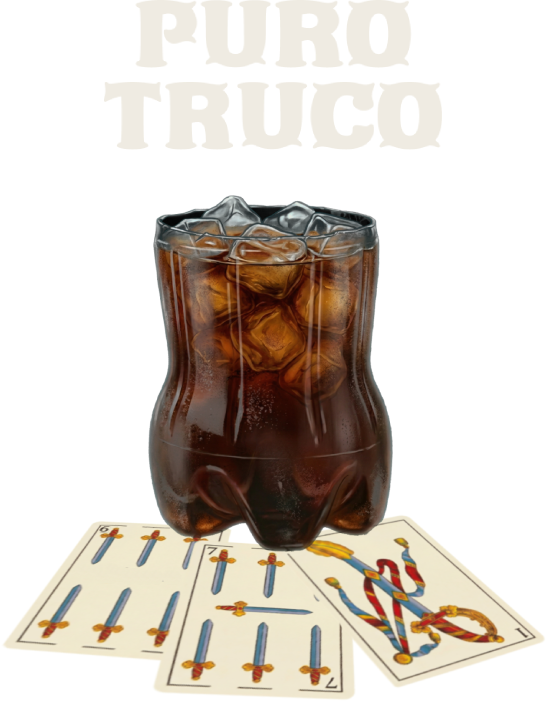
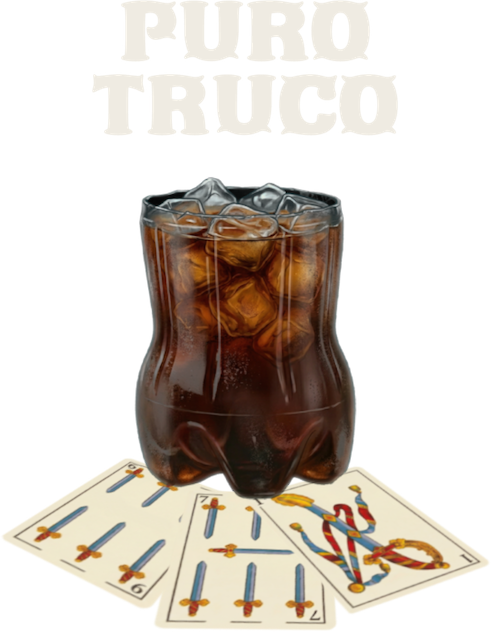
wip

Changed region(s): [[0.0, 0.2706, 1.0, 1.0], [0.3666, 0.6614, 0.3971, 0.6915]]

diff --git a/lib/widgets/settings_dialog.dart b/lib/widgets/settings_dialog.dart
@@ -4,6 +4,7 @@ import 'package:provider/provider.dart';
 import 'package:flutter_svg/flutter_svg.dart';
 import 'package:share_plus/share_plus.dart';
 import 'package:url_launcher/url_launcher.dart';
+import 'package:package_info_plus/package_info_plus.dart';
 
 import '../providers/premium_provider.dart';
 import '../providers/score_provider.dart';
@@ -13,6 +14,7 @@ import 'truco_buttons.dart';
 class SettingsDialogContent extends StatefulWidget {
   final Function(String) onThemeLockedTap;
   final Function(int) onPaletteLockedTap;
+  final Function(int) onBeanPaletteLockedTap;
   final VoidCallback onPremiumTap;
   final VoidCallback onRepeatTutorial;
 
@@ -20,6 +22,7 @@ class SettingsDialogContent extends StatefulWidget {
     super.key,
     required this.onThemeLockedTap,
     required this.onPaletteLockedTap,
+    required this.onBeanPaletteLockedTap,
     required this.onPremiumTap,
     required this.onRepeatTutorial,
   });
@@ -32,13 +35,28 @@ class _SettingsDialogContentState extends State<SettingsDialogContent> {
   int currentPane = 0; // 0: Main, 1: Customization, 2: Game Mode
   Timer? _timer;
   final ScrollController _gameModeScrollController = ScrollController();
+  String _appVersion = "1.1.4"; // Initial fallback
 
   @override
   void initState() {
     super.initState();
+    _loadVersion();
     _timer = Timer.periodic(const Duration(seconds: 30), (timer) {
       if (mounted) setState(() {});
     });
+  }
+
+  Future<void> _loadVersion() async {
+    try {
+      final packageInfo = await PackageInfo.fromPlatform();
+      if (mounted) {
+        setState(() {
+          _appVersion = packageInfo.version;
+        });
+      }
+    } catch (e) {
+      debugPrint("Error loading version: $e");
+    }
   }
 
   @override
@@ -608,8 +626,12 @@ class _SettingsDialogContentState extends State<SettingsDialogContent> {
                   runSpacing: isSmallScreen ? 12 : 16,
                   children: availableBeanPalettes.asMap().entries.map((entry) {
                     final palette = entry.value;
+                    final index = entry.key;
                     final isSelected =
                         scoreProvider.currentBeanPalette.name == palette.name;
+                    final isLocked = !premiumProvider.isBeanPaletteUnlocked(index);
+                    final timeLeft =
+                        premiumProvider.getRemainingTime('bean_palette_$index');
 
                     Color getBeanPreviewColor(BeanType type) {
                       switch (type) {
@@ -638,28 +660,56 @@ class _SettingsDialogContentState extends State<SettingsDialogContent> {
 
                     return GestureDetector(
                       onTap: () {
-                        scoreProvider.setBeanPalette(palette);
+                        if (isLocked) {
+                          widget.onBeanPaletteLockedTap(index);
+                        } else {
+                          scoreProvider.setBeanPalette(palette);
+                        }
                       },
-                      child: Container(
-                        width: isSmallScreen ? 44 : 48,
-                        height: isSmallScreen ? 44 : 48,
-                        decoration: BoxDecoration(
-                          shape: BoxShape.circle,
-                          color: getBeanPreviewColor(palette.type),
-                          border: Border.all(
-                            color: isSelected ? Colors.white : Colors.white10,
-                            width: isSelected ? 3 : 1,
+                      child: Stack(
+                        alignment: Alignment.center,
+                        children: [
+                          Container(
+                            width: isSmallScreen ? 44 : 48,
+                            height: isSmallScreen ? 44 : 48,
+                            decoration: BoxDecoration(
+                              shape: BoxShape.circle,
+                              color: getBeanPreviewColor(palette.type),
+                              border: Border.all(
+                                color: isSelected ? Colors.white : Colors.white10,
+                                width: isSelected ? 3 : 1,
+                              ),
+                              boxShadow: isSelected
+                                  ? [
+                                      BoxShadow(
+                                          color: getBeanPreviewColor(palette.type)
+                                              .withValues(alpha: 0.4),
+                                          blurRadius: 10,
+                                          spreadRadius: 2)
+                                    ]
+                                  : null,
+                            ),
                           ),
-                          boxShadow: isSelected
-                              ? [
-                                  BoxShadow(
-                                      color: getBeanPreviewColor(palette.type)
-                                          .withValues(alpha: 0.4),
-                                      blurRadius: 10,
-                                      spreadRadius: 2)
-                                ]
-                              : null,
-                        ),
+                          if (isLocked)
+                            const Icon(Icons.lock,
+                                color: Colors.white, size: 18),
+                          if (timeLeft != null)
+                            Container(
+                              decoration: const BoxDecoration(
+                                  shape: BoxShape.circle,
+                                  color: Colors.black45),
+                              padding: const EdgeInsets.all(4),
+                              child: Text(
+                                timeLeft,
+                                style: const TextStyle(
+                                  fontFamily: AppFonts.oswald,
+                                  fontSize: 10,
+                                  color: Colors.white,
+                                  fontWeight: FontWeight.bold,
+                                ),
+                              ),
+                            ),
+                        ],
                       ),
                     );
                   }).toList(),
@@ -911,7 +961,7 @@ class _SettingsDialogContentState extends State<SettingsDialogContent> {
                 ),
                 const SizedBox(height: 20), // Standarized to 20
                 Text(
-                  "Versión 1.1.4",
+                  "Versión $_appVersion",
                   style: TextStyle(
                     fontFamily: AppFonts.oswald,
                     fontSize: 14,

diff --git a/lib/widgets/victory_share_card.dart b/lib/widgets/victory_share_card.dart
@@ -1,0 +1,136 @@
+import 'package:flutter/material.dart';
+import '../theme/app_theme.dart';
+
+class VictoryShareCard extends StatelessWidget {
+  final String winnerName;
+  final int scoreNosotros;
+  final int scoreEllos;
+  final TrucoTheme theme;
+
+  const VictoryShareCard({
+    super.key,
+    required this.winnerName,
+    required this.scoreNosotros,
+    required this.scoreEllos,
+    required this.theme,
+  });
+
+  @override
+  Widget build(BuildContext context) {
+    return Container(
+      width: 400,
+      height: 550,
+      decoration: BoxDecoration(
+        color: theme.navy,
+        borderRadius: BorderRadius.circular(32),
+      ),
+      child: Stack(
+        children: [
+          // Watermark - REAL ASSET (Lowered opacity)
+          Positioned.fill(
+            child: Align(
+              alignment: Alignment.center,
+              child: Padding(
+                padding: const EdgeInsets.all(40.0),
+                child: Opacity(
+                  opacity: 0.15,
+                  child: Image.asset(
+                    'assets/images/markwatter.png',
+                    fit: BoxFit.contain,
+                  ),
+                ),
+              ),
+            ),
+          ),
+          // Content
+          Padding(
+            padding: const EdgeInsets.symmetric(horizontal: 32.0, vertical: 40.0),
+            child: Center(
+              child: Column(
+                mainAxisSize: MainAxisSize.min,
+                mainAxisAlignment: MainAxisAlignment.center,
+                children: [
+                  FittedBox(
+                    fit: BoxFit.scaleDown,
+                    child: Text(
+                      "PURO TRUCO",
+                      style: TextStyle(
+                        fontFamily: AppFonts.caminito,
+                        fontSize: 42,
+                        color: theme.cream,
+                        letterSpacing: 1,
+                      ),
+                    ),
+                  ),
+                  const SizedBox(height: 4),
+                  Text(
+                    "¡Partida finalizada!",
+                    style: TextStyle(
+                      fontFamily: AppFonts.oswald,
+                      fontSize: 20,
+                      color: theme.cream.withValues(alpha: 0.8),
+                      letterSpacing: 1,
+                    ),
+                  ),
+                  const SizedBox(height: 60),
+                  Text(
+                    "GANADOR",
+                    style: TextStyle(
+                      fontFamily: AppFonts.oswald,
+                      fontSize: 18,
+                      color: theme.cream.withValues(alpha: 0.6),
+                      letterSpacing: 2,
+                    ),
+                  ),
+                  const SizedBox(height: 8),
+                  FittedBox(
+                    fit: BoxFit.scaleDown,
+                    child: Text(
+                      winnerName.toUpperCase(),
+                      style: TextStyle(
+                        fontFamily: AppFonts.oswald,
+                        fontSize: 54,
+                        fontWeight: FontWeight.bold,
+                        color: theme.slate,
+                        letterSpacing: -1,
+                      ),
+                    ),
+                  ),
+                  const SizedBox(height: 50),
+                  FittedBox(
+                    fit: BoxFit.scaleDown,
+                    child: Text(
+                      "${scoreNosotros.toString().padLeft(2, '0')} - ${scoreEllos.toString().padLeft(2, '0')}",
+                      style: TextStyle(
+                        fontFamily: AppFonts.caminito,
+                        fontSize: 72,
+                        color: theme.cream,
+                      ),
+                    ),
+                  ),
+                ],
+              ),
+            ),
+          ),
+          // Footer Branding
+          Positioned(
+            bottom: 24,
+            left: 0,
+            right: 0,
+            child: Center(
+              child: Text(
+                "ANOTADOR DE TRUCO",
+                style: TextStyle(
+                  fontFamily: AppFonts.oswald,
+                  fontSize: 10,
+                  letterSpacing: 2,
+                  color: theme.cream.withValues(alpha: 0.3),
+                ),
+              ),
+            ),
+          ),
+        ],
+      ),
+    );
+  }
+}

diff --git a/lib/widgets/game_dialogs.dart b/lib/widgets/game_dialogs.dart
@@ -8,6 +8,11 @@ import '../services/ad_service.dart';
 import '../theme/app_theme.dart';
 import 'truco_buttons.dart';
 import 'truco_dialog.dart';
+import 'victory_share_card.dart';
+import 'dart:io';
+import 'dart:typed_data';
+import 'package:path_provider/path_provider.dart';
+import 'package:screenshot/screenshot.dart';
 
 abstract class GameDialogs {
   static void showWinner(
@@ -109,10 +114,37 @@ abstract class GameDialogs {
                       text: "Compartir",
                       toUpperCase: false,
                       iconAsset: 'assets/images/share_icon.svg',
-                      onPressed: () {
-                        final message =
-                            "¡Gané al Truco! $winnerName venció ${scoreProvider.nosotros} a ${scoreProvider.ellos}. #AnotadorDeTruco";
-                        Share.share(message);
+                      onPressed: () async {
+                        final screenshotController = ScreenshotController();
+
+                        // Capturar el widget estilizado en memoria (sin mostrarlo en pantalla)
+                        final Uint8List? imageBytes =
+                            await screenshotController.captureFromWidget(
+                          VictoryShareCard(
+                            winnerName: winnerName,
+                            scoreNosotros: scoreProvider.nosotros,
+                            scoreEllos: scoreProvider.ellos,
+                            theme: scoreProvider.appTheme,
+                          ),
+                          delay: const Duration(milliseconds: 100),
+                        );
+
+                        if (imageBytes != null) {
+                          // Guardar en un archivo temporal
+                          final directory = await getTemporaryDirectory();
+                          final String path =
+                              '${directory.path}/resultado_truco.png';
+                          final File file = File(path);
+                          await file.writeAsBytes(imageBytes);
+
+                          // Compartir el archivo generado
+                          final message =
+                              "¡Gané al Truco! $winnerName venció ${scoreProvider.nosotros} a ${scoreProvider.ellos}. #AnotadorDeTruco";
+                          await Share.shareXFiles(
+                            [XFile(path)],
+                            text: message,
+                          );
+                        }
                       },
                     ),
                   ),
@@ -203,6 +235,34 @@ abstract class GameDialogs {
                     AdService.showRewardedAd(
                       onUserEarnedReward: () {
                         premiumProvider.unlockTemporarily(id);
+
+                        // Auto-selection logic after unlocking via video
+                        if (id.startsWith('theme_')) {
+                          final themeName = id.replaceFirst('theme_', '');
+                          try {
+                            final theme = TrucoTheme.allThemes
+                                .firstWhere((t) => t.name == themeName);
+                            scoreProvider.setAppTheme(theme);
+                          } catch (_) {}
+                        } else if (id.startsWith('palette_')) {
+                          try {
+                            final index =
+                                int.parse(id.replaceFirst('palette_', ''));
+                            if (index >= 0 && index < availablePalettes.length) {
+                              scoreProvider.setPalette(availablePalettes[index]);
+                            }
+                          } catch (_) {}
+                        } else if (id.startsWith('bean_palette_')) {
+                          try {
+                            final index =
+                                int.parse(id.replaceFirst('bean_palette_', ''));
+                            if (index >= 0 &&
+                                index < availableBeanPalettes.length) {
+                              scoreProvider
+                                  .setBeanPalette(availableBeanPalettes[index]);
+                            }
+                          } catch (_) {}
+                        }
                       },
                       onAdNotReady: () {
                         ScaffoldMessenger.of(context).showSnackBar(

diff --git a/lib/main_screen.dart b/lib/main_screen.dart
@@ -724,6 +724,8 @@ class _MainScreenState extends State<MainScreen>
               _showUnlockDialog(context, 'theme_$themeName', 'tema'),
           onPaletteLockedTap: (index) =>
               _showUnlockDialog(context, 'palette_$index', 'fósforo'),
+          onBeanPaletteLockedTap: (index) =>
+              _showUnlockDialog(context, 'bean_palette_$index', 'poroto'),
           onPremiumTap: () => _showUnlockDialog(context, 'premium', 'premium'),
           onRepeatTutorial: () {
             setState(() {

diff --git a/lib/providers/premium_provider.dart b/lib/providers/premium_provider.dart
@@ -105,6 +105,11 @@ class PremiumProvider with ChangeNotifier {
     return isUnlocked('palette_$index');
   }
 
+  bool isBeanPaletteUnlocked(int index) {
+    if (index < 5) return true; // First 5 are free
+    return isUnlocked('bean_palette_$index');
+  }
+
   @override
   void dispose() {
     _billingService.dispose();
